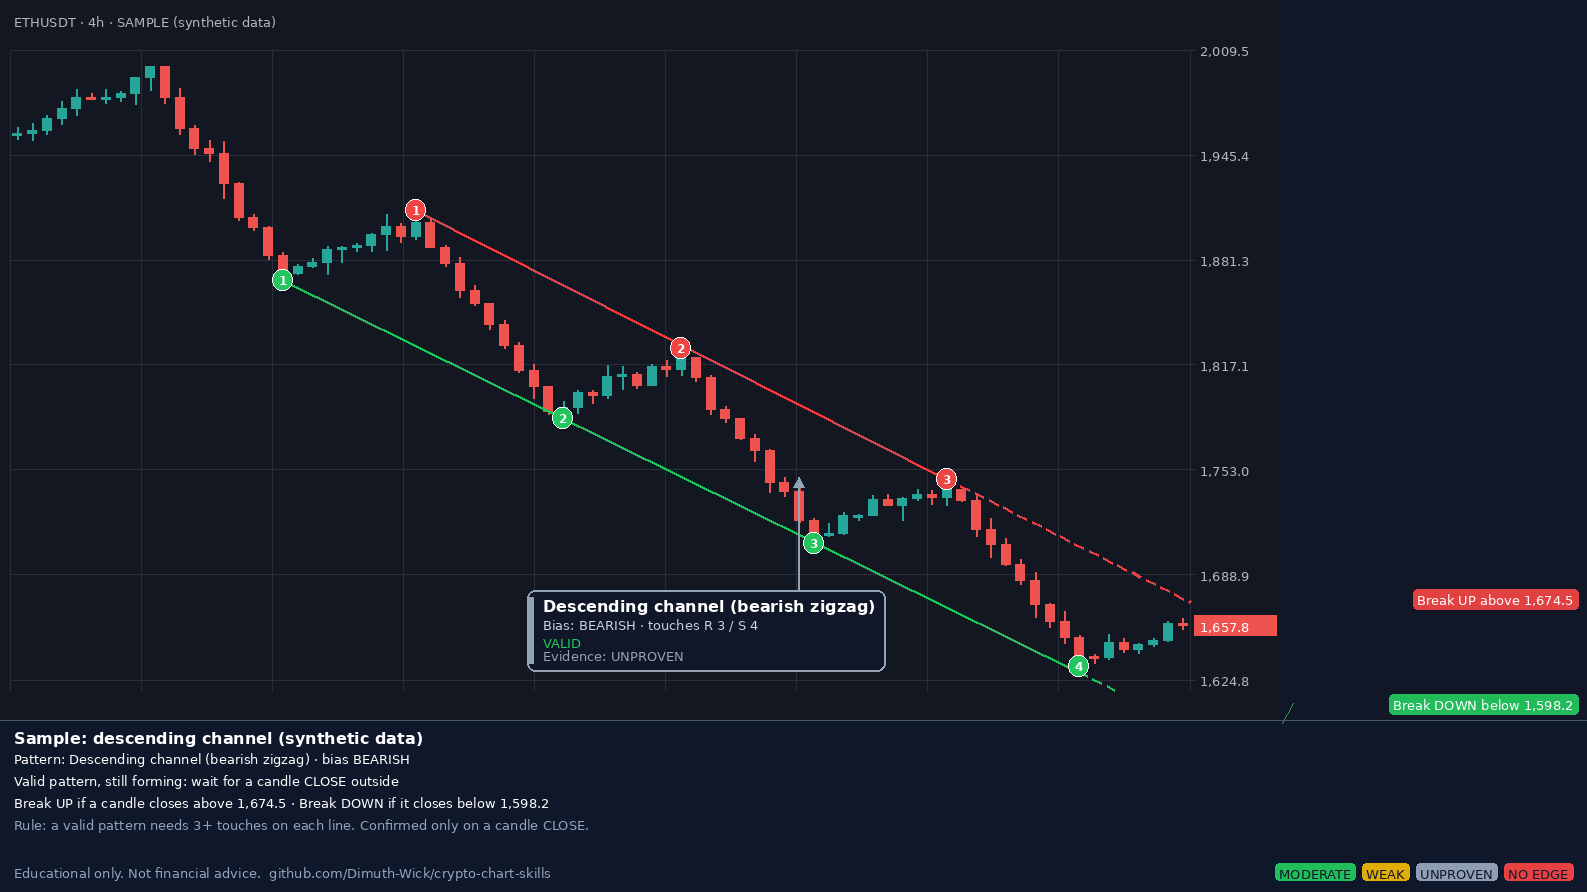
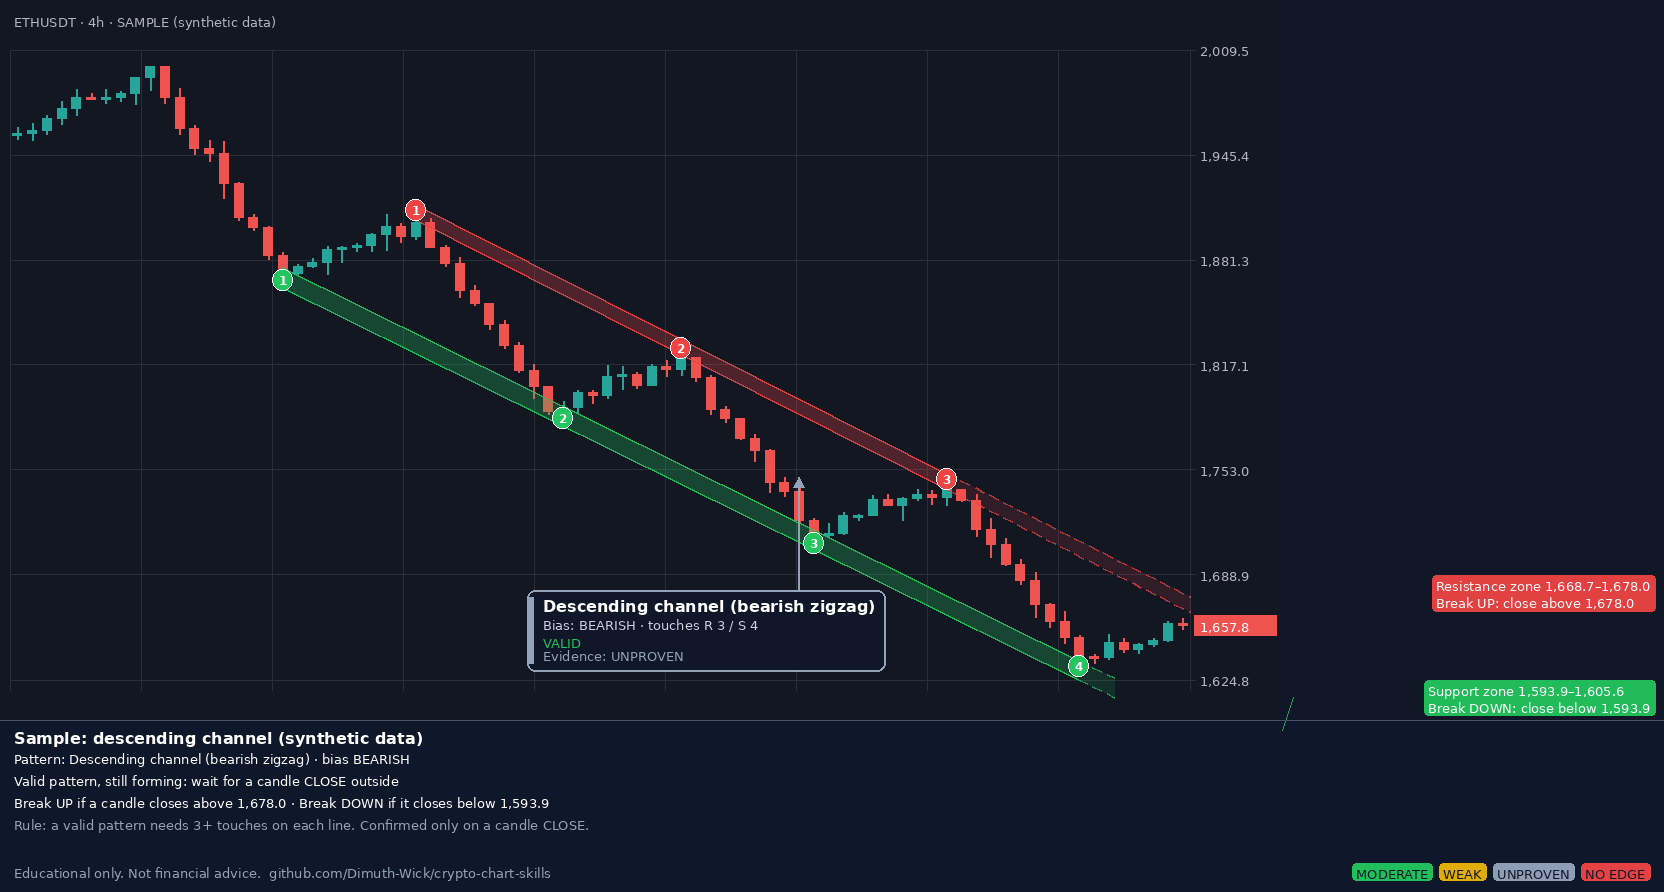
Support and resistance as zones with width; breakouts measured at the zone edge

diff --git a/skills/chart-reader/scripts/annotate.py b/skills/chart-reader/scripts/annotate.py
@@ -929,9 +929,27 @@ def cmd_levels(args):
     def export_line(line):
         if not line:
             return None
-        brk = first_break(line, candles, tol)
+        # zone width: spread of the touches around the line, at least `zone_half` each side
+        res_ = [t["y"] - line_y(line, t["x"]) for t in line["touches"]]
+        zone_half = args.zone_pct / 100 * (ry1 - ry0) / 2 if args.zone_pct else 0.75 * tol
+        top_off = min(min(res_), 0) - zone_half
+        bot_off = max(max(res_), 0) + zone_half
+        edge = top_off if line["kind"] == "resistance" else bot_off  # the edge price must close beyond
+        brk = None
+        for i in range(line["last_index"] + 1, len(candles)):
+            c = candles[i]
+            ey = line_y(line, c["x"]) + edge
+            if (line["kind"] == "resistance" and close_y(c) < ey) or (line["kind"] == "support" and close_y(c) > ey):
+                brk = i
+                break
         ly = line_y(line, last["x"])
         return {
+            "zone_top_offset_px": top_off,
+            "zone_bottom_offset_px": bot_off,
+            "zone_top_price": price(ly + top_off),
+            "zone_bottom_price": price(ly + bot_off),
+            "break_edge_y": ly + edge,
+            "break_edge_price": price(ly + edge),
             "kind": line["kind"],
             "touch_count": len(line["touches"]),
             "touches": [{"index": t["index"], "x": t["x"], "y": t["y"], "price": price(t["y"]),
@@ -941,7 +959,7 @@ def cmd_levels(args):
             "y_at_last_candle": ly,
             "price_at_last_candle": price(ly),
             "broken_at_index": brk,
-            "broken_price": price(line_y(line, candles[brk]["x"])) if brk is not None else None,
+            "broken_price": price(line_y(line, candles[brk]["x"]) + edge) if brk is not None else None,
         }
 
     out = {
@@ -988,8 +1006,8 @@ def cmd_levels(args):
         out["pattern"] = {
             "name": name, "bias": bias, "resistance_direction": rdir, "support_direction": sdir,
             "valid": valid, "status": status, "grade": grade, "verdict": verdict,
-            "breakout_up_price": R["price_at_last_candle"], "breakout_up_y": R["y_at_last_candle"],
-            "breakdown_price": S["price_at_last_candle"], "breakdown_y": S["y_at_last_candle"],
+            "breakout_up_price": R["break_edge_price"], "breakout_up_y": R["break_edge_y"],
+            "breakdown_price": S["break_edge_price"], "breakdown_y": S["break_edge_y"],
             "break_price": brk_price,
         }
     else:
@@ -1211,7 +1229,7 @@ def cmd_draw_levels(args):
                          "Confirmed only on a candle CLOSE."))
     lh = int(19 * s)
     band_h = int(lh * len(lines) + 2 * lh + 16 * s)
-    panel_w = int(0.24 * W)
+    panel_w = int(0.30 * W)
 
     bg = src.getpixel((2, 2))
     canvas = Image.new("RGBA", (W + panel_w, H + band_h), (15, 23, 42, 255))
@@ -1226,7 +1244,10 @@ def cmd_draw_levels(args):
     panel_tags = []  # (y, text, colour), stacked later so they never overlap
 
     # zones (light bands)
-    zones = sorted(lv.get("zones", []), key=lambda z: abs(z["center_y"] - lv["last_close_y"]))[:2]
+    line_ys = [L["y_at_last_candle"] for L in (lv.get("resistance"), lv.get("support")) if L]
+    zones = [z for z in lv.get("zones", [])
+             if all(abs(z["center_y"] - ly) > 3 * lv["tolerance_px"] for ly in line_ys)]
+    zones = sorted(zones, key=lambda z: abs(z["center_y"] - lv["last_close_y"]))[:2]
     for z in zones:
         col = GREEN if z["kind"] == "support" else RED
         d.rectangle([rx0, z["top_y"], rx1, z["bottom_y"]], fill=col + (34,), outline=col + (90,))
@@ -1237,19 +1258,31 @@ def cmd_draw_levels(args):
         if not L:
             return
         x_a, y_a = L["start"]
-        y_last = L["y_at_last_candle"]
+        sl = L["slope_px"]
+        top, bot = L.get("zone_top_offset_px", -3 * s), L.get("zone_bottom_offset_px", 3 * s)
         t_last = L["touches"][-1]
-        y_t = y_a + L["slope_px"] * (t_last["x"] - x_a)
-        width = max(2, int((3 if valid else 2) * s))
-        alpha = 245 if valid else 150
-        d.line([(x_a, y_a), (t_last["x"], y_t)], fill=col + (alpha,), width=width)
-        x_end, y_end = rx1, y_a + L["slope_px"] * (rx1 - x_a)
-        if L["slope_px"] and not (ry0 <= y_end <= ry1):  # stop where the line leaves the pane
-            y_end = min(max(y_end, ry0), ry1)
-            x_end = x_a + (y_end - y_a) / L["slope_px"]
+
+        def yl(x):
+            return y_a + sl * (x - x_a)
+
+        x_end = rx1
+        if sl and not (ry0 <= yl(rx1) <= ry1):  # stop where the zone leaves the pane
+            x_end = x_a + (min(max(yl(rx1), ry0), ry1) - y_a) / sl
+        x_end = max(x_end, t_last["x"])
+        alpha_fill = 70 if valid else 45
+        # tested part of the zone (first to last touch): stronger fill
+        d.polygon([(x_a, yl(x_a) + top), (t_last["x"], yl(t_last["x"]) + top),
+                   (t_last["x"], yl(t_last["x"]) + bot), (x_a, yl(x_a) + bot)], fill=col + (alpha_fill,))
+        # projected part: lighter fill
         if x_end > t_last["x"]:
-            dashed_line(d, (t_last["x"], y_t), (x_end, y_end), col + (alpha,), width)
-        occ.line([(x_a, y_a), (rx1, y_a + L["slope_px"] * (rx1 - x_a))], 6 * s)
+            d.polygon([(t_last["x"], yl(t_last["x"]) + top), (x_end, yl(x_end) + top),
+                       (x_end, yl(x_end) + bot), (t_last["x"], yl(t_last["x"]) + bot)], fill=col + (alpha_fill // 2,))
+        ew = max(1, int(2 * s)) if valid else max(1, int(s))
+        for off in (top, bot):  # zone edges
+            d.line([(x_a, yl(x_a) + off), (t_last["x"], yl(t_last["x"]) + off)], fill=col + (230,), width=ew)
+            if x_end > t_last["x"]:
+                dashed_line(d, (t_last["x"], yl(t_last["x"]) + off), (x_end, yl(x_end) + off), col + (180,), ew)
+        occ.line([(x_a, yl(x_a)), (x_end, yl(x_end))], max(6 * s, bot - top))
         rad = 9 * s
         for k, t in enumerate(L["touches"], 1):
             x, y = t["x"], t["y"]
@@ -1269,8 +1302,13 @@ def cmd_draw_levels(args):
     draw_line(lv.get("resistance"), RED, valid)
     draw_line(lv.get("support"), GREEN, valid)
     if pat and pat.get("breakout_up_price") is not None:
-        panel_tags.append((pat["breakout_up_y"], f"Break UP above {fmt_price(pat['breakout_up_price'])}", RED, 240))
-        panel_tags.append((pat["breakdown_y"], f"Break DOWN below {fmt_price(pat['breakdown_price'])}", GREEN, 240))
+        R_, S2 = lv["resistance"], lv["support"]
+        panel_tags.append((pat["breakout_up_y"],
+                           f"Resistance zone {fmt_price(R_.get('zone_bottom_price'))}–{fmt_price(R_.get('zone_top_price'))}"
+                           f"\nBreak UP: close above {fmt_price(pat['breakout_up_price'])}", RED, 240))
+        panel_tags.append((pat["breakdown_y"],
+                           f"Support zone {fmt_price(S2.get('zone_bottom_price'))}–{fmt_price(S2.get('zone_top_price'))}"
+                           f"\nBreak DOWN: close below {fmt_price(pat['breakdown_price'])}", GREEN, 240))
 
     # pattern callouts (after all lines so they avoid them)
     if pat and lv.get("resistance") and lv.get("support"):
@@ -1296,12 +1334,12 @@ def cmd_draw_levels(args):
 
     # panel tags, de-overlapped top to bottom
     panel_tags.sort(key=lambda t: t[0])
-    min_gap = 26 * s
-    placed = []
+    prev_bottom = None
     for y, txt, col, alpha in panel_tags:
-        yy = max(y, placed[-1] + min_gap) if placed else y
-        yy = min(max(yy, 14 * s), H - 14 * s)
-        placed.append(yy)
+        th = text_size(d, txt, f_small)[1] + 8 * s
+        yy = y if prev_bottom is None else max(y, prev_bottom + 6 * s + th / 2)
+        yy = min(max(yy, th / 2 + 4 * s), H - th / 2 - 4 * s)
+        prev_bottom = yy + th / 2
         if abs(yy - y) > 2:
             d.line([(W + 2 * s, y), (W + 12 * s, yy)], fill=col + (200,), width=max(1, int(s)))
         label_box(d, (CW - 8 * s, yy), txt, f_small, (255, 255, 255, 255), col + (alpha,), anchor="rm")
@@ -1410,6 +1448,8 @@ def main(argv=None):
                     help="ignore lines broken more than N candles ago (finished patterns, default 10)")
     lv.add_argument("--max-stale", type=int, default=40,
                     help="a line's last touch must be within the last N candles (default 40)")
+    lv.add_argument("--zone-pct", type=float,
+                    help="support/resistance zone width, %% of pane height (default: 1.5x touch tolerance)")
     lv.add_argument("--left", type=int, default=3)
     lv.add_argument("--right", type=int, default=3)
     lv.add_argument("--tol-pct", type=float, default=1.2, help="touch tolerance, %% of pane height (default 1.2)")

diff --git a/skills/chart-reader/SKILL.md b/skills/chart-reader/SKILL.md
@@ -90,7 +90,10 @@ pattern from the two slopes and reports the breakout prices at the latest candle
 - **Valid pattern = 3+ touches on EACH line** (`--min-touches 3`, the default). Fewer touches:
   call it "possible ...", do not grade it, do not base a plan on it.
 - Valid and still inside = `unproven` (forming). Valid and a candle has **closed** outside = `moderate`.
-- Breakout prices: `breakout_up_price` / `breakdown_price`. Always say "on a candle CLOSE".
+- Support and resistance are **zones, not lines**: each line has a band (`zone_top_price` /
+  `zone_bottom_price`) sized from how spread out the touches are. Quote zones as ranges.
+- Breakout prices are the zone's **outer edge**: `breakout_up_price` = top of the resistance zone,
+  `breakdown_price` = bottom of the support zone. Always say "on a candle CLOSE".
 - `double` reports a double bottom/top with its neckline (`weak`). `tentative` points are in the
   last few candles and are not confirmed yet.
 - Lines broken long ago (`--max-age`, default 10 candles) or not touched recently

diff --git a/README.md b/README.md
@@ -6,7 +6,7 @@ Give it a crypto chart screenshot and it returns **two annotated charts**:
 | Chart | What it shows |
 |---|---|
 | **1. Structure** | Swing pivots (HH / HL / LH / LL), market structure, patterns **with their research grade**, and a risk-first trade plan, or a **NO TRADE** stamp |
-| **2. Levels** | Support and resistance lines with **numbered touches**, the pattern (zigzag/channel, triangle, range, double bottom/top), bullish or bearish bias, whether it is **VALID** (3+ touches on each line), and the **exact breakout prices** |
+| **2. Levels** | Support and resistance **zones** (bands, not thin lines) with **numbered touches**, the pattern (zigzag/channel, triangle, range, double bottom/top), bullish or bearish bias, whether it is **VALID** (3+ touches on each line), and the **exact breakout prices** |
 
 Pattern names sit in empty space with an arrow, so they never cover the chart.
 

diff --git a/skills/chart-reader/references/patterns.md b/skills/chart-reader/references/patterns.md
@@ -53,7 +53,8 @@ rough guide, not a forecast.
 - Grade `unproven`. Mention, draw lightly, do not base a plan on them alone.
 
 ## Support / resistance
-- Zones, not lines: use a band around 2+ reactions at a similar price.
+- Zones, not lines: always a band with width, never a single line. Sloped lines from
+  `levels` get a band too. A break means a candle **closes beyond the outer edge** of the zone.
 - Grade `weak`. Use them mainly for stop placement and targets.
 
 ## Candlesticks
